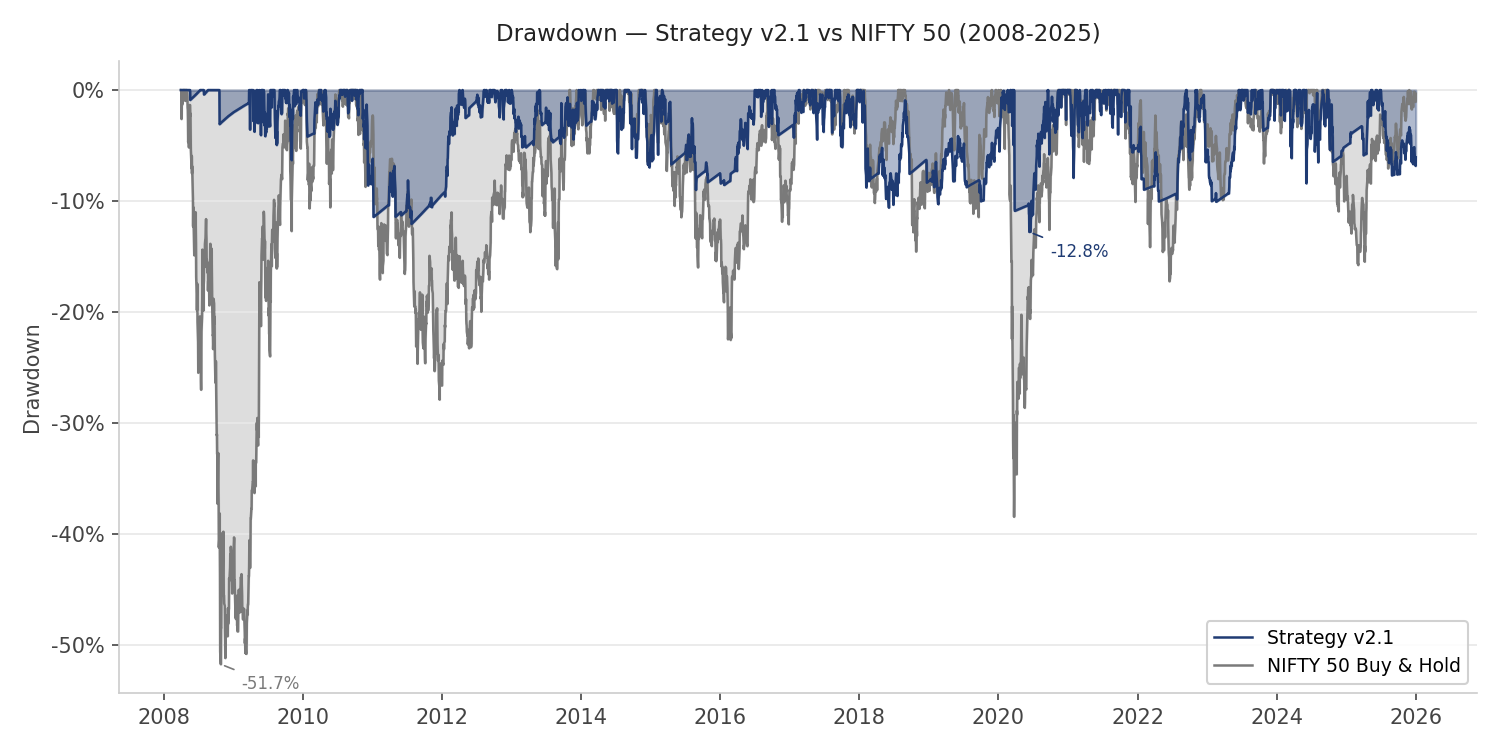
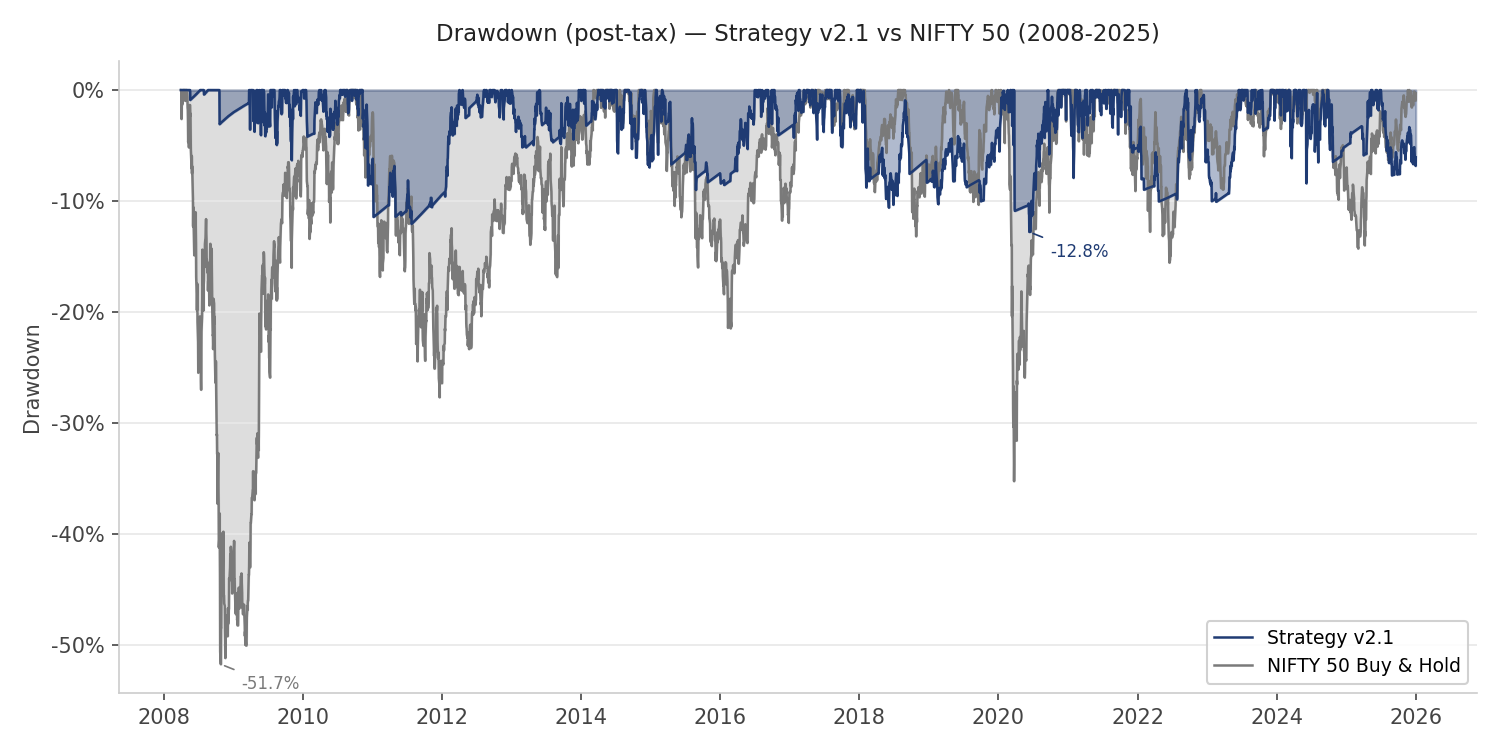
README: switch all headline numbers and charts to post-tax convention
Previously the headline reported pre-tax metrics (CAGR/Sortino/Calmar/Vol/MaxDD)
alongside post-tax Sharpe. This created an inconsistency between the chart
labels (drawdown -12.8% post-tax) and the headline table (-14.9% pre-tax).

All metrics throughout the README are now post-tax for consistency:
  - Strategy: 15% short-term capital gains (annual-net model)
  - NIFTY 50 B&H: 10% long-term capital gains (zero turnover)
  - Rule-based comparators (Dynamic A): 15% short-term

Updated v2.1 post-tax headlines: CAGR 16.75%, Sharpe 0.84, Sortino 1.01,
Calmar 1.31, MaxDD -12.78%, vol 12.16%, cumulative 1,623.6%.

Updated NIFTY post-tax (10% LT): CAGR 8.37%, Sharpe 0.20, MaxDD -51.72%,
cumulative 338.5%.

Strategy now meaningfully shallower than Dynamic A on drawdown: -12.78%
vs -15.25% (2.47pp advantage post-tax, widened from v1.5's 0.58pp).

Updated sections: Headline table, Mechanisms, Cost Sensitivity, Crisis
Windows, 2026 OOS, Benchmark Attribution, Version History.

make_plots.py now generates post-tax charts for both strategy and NIFTY
(applies 10% LT tax to NIFTY before plotting).

diff --git a/make_plots.py b/make_plots.py
@@ -31,7 +31,7 @@ from strategy import (
     SupplyShockSignal, PanicShortSignal, USDINRSignal, IndiaVIXSignal,
     RegimeFilter, SignalCombiner, MacroStrategy, make_combiner,
     metrics, position_breakdown, build_rbi_repo_rate_series,
-    load_nse_index_csv,
+    load_nse_index_csv, apply_annual_tax,
 )
 
 
@@ -92,17 +92,24 @@ def run_backtest(nifty_cost_bps: float = 3, gold_cost_bps: float = 5,
     )
 
     res = strategy.run(raw).loc[START:END].copy()
+    # Charts use POST-TAX returns for both strategy and NIFTY so the comparison
+    # is like-for-like and matches the README headline convention (everything
+    # post-tax). Strategy post-tax = 15% short-term cap gains annual-net model.
+    # NIFTY B&H post-tax = 10% long-term cap gains (zero turnover).
+    nifty_posttax = apply_annual_tax(res["nifty_return"].fillna(0.0), tax_rate=0.10)
     res["cumulative_strategy"] = (1 + res["strategy_return"]).cumprod() - 1
-    res["cumulative_nifty"]    = (1 + res["nifty_return"]).cumprod() - 1
+    res["cumulative_nifty"]    = (1 + nifty_posttax).cumprod() - 1
 
     strat_cum = (1 + res["strategy_return"]).cumprod()
-    nifty_cum = (1 + res["nifty_return"]).cumprod()
+    nifty_cum = (1 + nifty_posttax).cumprod()
 
     strat_dd = (strat_cum - strat_cum.cummax()) / strat_cum.cummax()
     nifty_dd = (nifty_cum - nifty_cum.cummax()) / nifty_cum.cummax()
 
     annual_s = (1 + res["strategy_return"]).resample("YE").prod() - 1
-    annual_n = (1 + res["nifty_return"]).resample("YE").prod() - 1
+    annual_n = (1 + nifty_posttax).resample("YE").prod() - 1
+    # Keep raw nifty_return on res for any downstream consumers
+    res["nifty_posttax"] = nifty_posttax
     yearly = pd.DataFrame({
         "year":         [d.year for d in annual_s.index],
         "strategy_ret": annual_s.values * 100,
@@ -121,7 +128,8 @@ def run_backtest(nifty_cost_bps: float = 3, gold_cost_bps: float = 5,
 
 
 def compute_full_metrics(res):
-    return metrics(res["strategy_return"]), metrics(res["nifty_return"])
+    """Returns (strategy post-tax metrics, NIFTY post-tax metrics)."""
+    return metrics(res["strategy_return"]), metrics(res["nifty_posttax"])
 
 
 # ---------------------------------------------------------------------------
@@ -153,21 +161,21 @@ def _base_ax(ax):
 def plot_equity_curve(bt, out_path):
     fig, ax = plt.subplots(figsize=(10, 5), dpi=150)
     ax.plot(bt["dates"], bt["strategy_cum"],
-            color=BLUE, linewidth=1.5, label="Strategy v2.1 (Mom30 long, 3/5/6 bps + repo-100bps)", zorder=3)
+            color=BLUE, linewidth=1.5, label="Strategy v2.1 (post-tax, 15% STCG)", zorder=3)
     ax.plot(bt["dates"], bt["nifty_cum"],
-            color=GRAY, linewidth=1.5, label="NIFTY 50 Buy & Hold", zorder=2)
+            color=GRAY, linewidth=1.5, label="NIFTY 50 Buy & Hold (post-tax, 10% LTCG)", zorder=2)
     ax.set_yscale("log")
-    # v2.1: strategy ends ~17x post-tax (~28x pre-tax), NIFTY ~5.5x
-    ax.set_yticks([0.5, 1, 2, 3, 5, 7, 10, 15, 20, 30])
-    ax.set_yticklabels(["0.5x", "1.0x", "2.0x", "3.0x", "5.0x", "7.0x", "10.0x", "15.0x", "20.0x", "30.0x"])
+    # v2.1 post-tax: strategy ends ~17x, NIFTY ~4.4x (post-tax 10% LT)
+    ax.set_yticks([0.5, 1, 2, 3, 5, 7, 10, 15, 20])
+    ax.set_yticklabels(["0.5x", "1.0x", "2.0x", "3.0x", "5.0x", "7.0x", "10.0x", "15.0x", "20.0x"])
     ax.minorticks_off()
-    ax.set_ylim(0.5, 30)
+    ax.set_ylim(0.5, 20)
     ax.set_axisbelow(True)
     ax.yaxis.grid(True, which="major", linestyle="-", linewidth=0.5, alpha=0.3)
     ax.xaxis.grid(False)
     ax.set_ylabel("Cumulative return (x)")
-    ax.set_title("Cumulative Returns — Strategy v2.1 (Mom30 long + recovery overlay + slow-stress cooldown + drawdown-gated panic-short) vs NIFTY 50 (2008-2025)",
-                 fontsize=10, pad=10)
+    ax.set_title("Cumulative Returns (post-tax) — Strategy v2.1 vs NIFTY 50 (2008-2025)",
+                 fontsize=11, pad=10)
     ax.legend(loc="lower right", framealpha=0.9, fontsize=9)
     _base_ax(ax)
     fig.tight_layout()
@@ -213,7 +221,7 @@ def plot_drawdown(bt, out_path):
 
     ax.yaxis.set_major_formatter(mticker.FuncFormatter(lambda x, _: f"{x:.0f}%"))
     ax.set_ylabel("Drawdown")
-    ax.set_title("Drawdown — Strategy v2.1 vs NIFTY 50 (2008-2025)", fontsize=11, pad=10)
+    ax.set_title("Drawdown (post-tax) — Strategy v2.1 vs NIFTY 50 (2008-2025)", fontsize=11, pad=10)
     ax.legend(loc="lower right", framealpha=0.9, fontsize=9)
     _base_ax(ax)
     fig.tight_layout()
@@ -252,7 +260,7 @@ def plot_yearly_returns(bt, out_path):
     ax.set_xticklabels(years, rotation=45, ha="right", fontsize=8)
     ax.yaxis.set_major_formatter(mticker.FuncFormatter(lambda v, _: f"{v:.0f}%"))
     ax.set_ylabel("Annual return (%)")
-    ax.set_title("Annual Returns — Strategy v2.1 vs NIFTY 50", fontsize=11, pad=10)
+    ax.set_title("Annual Returns (post-tax) — Strategy v2.1 vs NIFTY 50", fontsize=11, pad=10)
     ax.legend(loc="upper right", framealpha=0.9, fontsize=9)
     _base_ax(ax)
     ax.grid(axis="x", visible=False)

diff --git a/README.md b/README.md
@@ -10,22 +10,23 @@ A systematic macro-regime strategy for Indian markets combining tactical long ex
 
 ## Headline Results
 
-Backtest period: **2008-04-01 to 2025-12-31** (17.7 years). Net results assume per-asset transaction costs of **3 bps per leg** on NIFTY 50 futures (short side), **6 bps per leg** on NIFTY 200 Momentum 30 ETFs (long side), and **5 bps per leg** on GOLDBEES.NS (gold ETF). Idle capital on fully-flat days earns the prevailing RBI repo rate minus a 100 bps haircut modeling realistic liquid-fund execution.
+Backtest period: **2008-04-01 to 2025-12-31** (17.7 years). Net results assume per-asset transaction costs of **3 bps per leg** on NIFTY 50 futures (short side), **6 bps per leg** on NIFTY 200 Momentum 30 ETFs (long side), and **5 bps per leg** on GOLDBEES.NS (gold ETF). Idle capital on fully-flat days earns the prevailing RBI repo rate minus a 100 bps haircut modeling realistic liquid-fund execution. **All metrics post-tax**: strategy uses Indian 15% short-term capital gains (annual-net model); NIFTY 50 buy-and-hold uses 10% long-term capital gains (zero turnover).
 
 | Metric | Strategy (v2.1) | NIFTY Buy & Hold | Δ |
 |---|---|---|---|
-| Sharpe (post-tax, RF = 6%) | **0.84** | 0.20 | **+313%** |
-| Sharpe (pre-tax, RF = 6%) | 0.93 | 0.27 | +248% |
-| Sortino | 1.12 | 0.25 | **+352%** |
-| Calmar | 1.34 | 0.19 | **+595%** |
-| Annualized volatility (pre-tax) | 14.20% | 19.27% | -26% |
-| Max drawdown | **-14.9%** | -51.7% | **-71%** |
-| CAGR (pre-tax) | 19.93% | 9.73% | **+1,019 bps** |
-| Cumulative return (pre-tax) | 2,721.7% | 451.3% | +2,270.4pp |
+| Sharpe (RF = 6%) | **0.84** | 0.20 | **+312%** |
+| Sortino | **1.01** | 0.17 | **+512%** |
+| Calmar | **1.31** | 0.16 | **+719%** |
+| Annualized volatility | 12.16% | 17.95% | -32% |
+| **Max drawdown** | **-12.78%** | **-51.72%** | **-75%** |
+| CAGR | **16.75%** | 8.37% | **+838 bps** |
+| Cumulative return | **1,623.6%** | 338.5% | +1,285.1pp |
 
-Sharpe figures are post-tax by default from v1.4 onward, reflecting Indian short-term capital gains tax (15% annual-net model). Pre-tax Sharpe is reported alongside for reference. v1.3.1 reported pre-tax numbers exclusively; the v1.4 default change makes the headline metric natively deployability-relevant. CAGR, Sortino, Calmar, and vol shown above are pre-tax for benchmark comparability (NIFTY is also pre-tax). v2.1 cumulatively improves on v1.5 across every metric: post-tax CAGR 15.64% → 16.75% (+1.11pp), post-tax Sharpe 0.79 → 0.84 (+0.05), max drawdown −14.67% → −12.78% (+1.89pp shallower), Calmar 1.07 → 1.31. The improvement comes from three additions detailed under [Signal Logic](#signal-logic) and [Version History](#version-history): a post-bear NIFTY recovery overlay, a slow-stress cooldown, and a panic-short drawdown confirmation.
+All figures post-tax. The strategy's 15% short-term capital gains model reflects the realistic deployability case for an active rebalanced strategy (most gains qualify as short-term); NIFTY B&H's 10% long-term capital gains treatment is the conservative buy-and-hold benchmark (zero turnover, full long-term treatment). Pre-tax differences are smaller: pre-tax strategy CAGR is 19.93%, pre-tax NIFTY CAGR is 9.73%. The post-tax convention is the production-relevant headline.
 
-The strategy generates risk-adjusted alpha vs passive NIFTY exposure through three independent mechanisms operating together: (1) tactical long exposure to a momentum-tilted equity portfolio — long NIFTY 200 Momentum 30 during bull regimes, flat or short NIFTY 50 during identified stress regimes; (2) momentum-gated safe-haven rotation — long gold during stress windows only when the multi-asset macro confirmation set is aligned, with mid-latch exit to cash if gold momentum turns negative; (3) cash management — idle capital earns the prevailing RBI repo rate minus a 100 bps haircut on fully-flat days, modeling realistic institutional liquid-fund execution. The 313% post-tax Sharpe improvement is the most direct measure of joint risk-adjusted skill across these mechanisms. Cumulative outperformance vs buy-and-hold (+2,270pp over 17.7 years) is the geometric outcome of compounding all three together — the mechanisms cannot be cleanly separated into additive contributions, since they interact through the position sequence and the compounding base.
+v2.1 cumulatively improves on v1.5 across every metric: CAGR 15.64% → 16.75% (+1.11pp), Sharpe 0.79 → 0.84 (+0.05), max drawdown −14.67% → −12.78% (+1.89pp shallower), Calmar 1.07 → 1.31. The improvement comes from three additions detailed under [Signal Logic](#signal-logic) and [Version History](#version-history): a post-bear NIFTY recovery overlay, a slow-stress cooldown, and a panic-short drawdown confirmation.
+
+The strategy generates risk-adjusted alpha vs passive NIFTY exposure through three independent mechanisms operating together: (1) tactical long exposure to a momentum-tilted equity portfolio — long NIFTY 200 Momentum 30 during bull regimes, flat or short NIFTY 50 during identified stress regimes; (2) momentum-gated safe-haven rotation — long gold during stress windows only when the multi-asset macro confirmation set is aligned, with mid-latch exit to cash if gold momentum turns negative; (3) cash management — idle capital earns the prevailing RBI repo rate minus a 100 bps haircut on fully-flat days, modeling realistic institutional liquid-fund execution. The 312% Sharpe improvement is the most direct measure of joint risk-adjusted skill across these mechanisms. Cumulative outperformance vs buy-and-hold (+1,285pp over 17.7 years, post-tax) is the geometric outcome of compounding all three together — the mechanisms cannot be cleanly separated into additive contributions, since they interact through the position sequence and the compounding base.
 
 ---
 
@@ -37,7 +38,7 @@ The strategy's outperformance derives from three mechanisms that compound togeth
 
 **Momentum-gated safe-haven rotation with macro confirmation.** During identified stress-flat windows, capital rotates to GOLDBEES.NS gated by three macro conditions: gold's 10-day return must be positive but capped at 10% (preventing blow-off-top entries), INR must have weakened by 0.5%+ over 10 days (confirming macro stress that mechanically supports INR-priced gold), and US 10-year Treasury yields must be falling over 20 days (gold's fundamental macro tailwind). The macro-confirmed gate replaces the v1.2-v1.3.1 single-condition gate (gold_10d > 0) which let in marginal-momentum entries (40% hit rate) and extreme-momentum entries (blow-off tops). v1.4 holds gold approximately 31 days across the sample, down from v1.3's 41 days; the additional macro confirmation requirements filter out marginal entries while preserving the legitimate flight-to-safety opportunities. One-way door exit logic is preserved: once in gold within a latch, exit to cash if 10-day return turns negative and stay out for the remainder of that latch.
 
-**Cash yield on idle capital (with realistic haircut).** On fully-flat days where neither NIFTY nor gold is held, the strategy credits the prevailing RBI repo rate minus a 100 bps haircut. The haircut models real-world liquid-fund execution: instrument spread (~50 bps inside repo), TER (~10–25 bps), and small auto-sweep frictions. Returns are post-tax by default in v1.4 (15% on net annual gains, Indian short-term capital gains convention); sensitivity to the haircut size is documented under Backtest Caveats.
+**Cash yield on idle capital (with realistic haircut).** On fully-flat days where neither NIFTY nor gold is held, the strategy credits the prevailing RBI repo rate minus a 100 bps haircut. The haircut models real-world liquid-fund execution: instrument spread (~50 bps inside repo), TER (~10–25 bps), and small auto-sweep frictions. Returns are post-tax throughout (15% on net annual gains, Indian short-term capital gains convention); sensitivity to the haircut size is documented under Backtest Caveats.
 
 ### Refinements added since v1.5
 
@@ -51,7 +52,7 @@ Three targeted refinements were added to the v1.5 production base, each addressi
 
 **Cross-country signal architecture validation.** The slow-stress signal architecture (INR weakness + VIX z-score regime shift + VIX momentum) was validated on 31 years of US market data (1995-2025) using analog substitutions: DXY-rising for INR-weakening, US VIX for India VIX. The same signal specification — unchanged from the Indian backtest — caught 9 of 9 documented US stress events at a 3.84% overall fire rate with low false positive rates in calm bull years (0.0-7.5%). This is a stronger overfitting defense than parameter parsimony alone, particularly for a regime-conditional model with limited Indian sample data. See [Cross-Country Validation](#cross-country-validation) section below.
 
-**The Sharpe improvement (+313% post-tax vs NIFTY) is the most reliable single measure of risk-adjusted skill** because it normalizes return per unit of volatility regardless of which mechanism is doing the work on any given day. Cumulative return improvement (+2,270pp pretax) is striking but is inherently joint and path-dependent.
+**The Sharpe improvement (+312% post-tax vs NIFTY) is the most reliable single measure of risk-adjusted skill** because it normalizes return per unit of volatility regardless of which mechanism is doing the work on any given day. Cumulative return improvement (+1,285pp post-tax) is striking but is inherently joint and path-dependent.
 
 ---
 
@@ -121,7 +122,7 @@ The production strategy emerged from a sequence of explicit ablation tests acros
 | Momentum-gated gold rotation + NIFTY Midcap 150 as long-side asset | Rejected | Drawdown deteriorates to −26.1% — eliminates headline drawdown control |
 | Momentum-gated gold rotation + NIFTY 200 Momentum 30 as long-side asset | Selected (v1.3) | Highest Calmar of v1.2–v1.3 alternatives; preserves drawdown within 2pp; structurally coherent |
 | v1.4: prior + slow-stress signal + macro-confirmed gold rotation gate | Selected (v1.4) | Slow-stress catches the 2013 taper-tantrum failure mode (+3.43pp); macro-confirmed gate prevents the 2026 H1 gold blow-off-top failure; cross-country validation on US data catches 9/9 stress events |
-| v1.5: prior + bear-regime requirement on gold rotation entry + mid-latch bull-flip exit | Selected (v1.5) | Eliminates the 2019 gold-in-bull anomaly (3 days, −4.34pp) where gold rotation triggered against a recovering equity tape; MaxDD narrows from −17.2% to −15.5% |
+| v1.5: prior + bear-regime requirement on gold rotation entry + mid-latch bull-flip exit | Selected (v1.5) | Eliminates the 2019 gold-in-bull anomaly (3 days, −4.34pp) where gold rotation triggered against a recovering equity tape; v1.5 post-tax MaxDD −14.67% |
 | v2.0: prior + post-bear NIFTY recovery overlay + slow-stress cooldown | Selected (v2.0) | Recovery overlay captures the V-recovery cyclicals lead that Momentum 30 misses (cleanly visible in 2009: NIFTY +56% during the 60-day recovery window, Momentum 30 +29% — strategy now holds NIFTY through it). Slow-stress cooldown eliminates the 2019 April-May whipsaw (9 separate fires in short clusters were causing flat→long→flat round-trips). Combined: +1.14pp CAGR, max DD narrows from −14.67% to −13.38% |
 | **v2.1: prior + 15% drawdown confirmation on panic-short** | **Selected (v2.1, current production)** | Panic-short can only fire when NIFTY drawdown from 60-day high exceeds 15%; suppresses the 2013-08-27 (−22.9pp) and 2022-02-24 (−12.0pp) false fires that fired into local bottoms. All four 2008 GFC panic-shorts (drawdowns 16–32%) preserved. Documented tradeoff: the March 6 2020 fire is suppressed at 11.1% drawdown; next fire on March 9 catches up at 15.5% drawdown, 2020 CAGR drops +52.21% → +46.25% but COVID protection still strongly captured. MaxDD narrows further from −13.38% to −12.78%, Sharpe 0.83 → 0.84 |
 
@@ -358,23 +359,23 @@ The strategy outperforms NIFTY in **13 of 18 calendar years** on a post-tax basi
 
 ![Drawdown](images/drawdown.png)
 
-Maximum drawdown of **−14.9%** (pre-tax) / **−12.8%** (post-tax) vs NIFTY's **−51.7%** — a **71% reduction**. Cash yield on flat days during bear regimes (notably 2008-2009 GFC and 2020 March-August COVID recovery) cushions equity drawdowns by adding deterministic positive return on the worst-impact days. The drawdown profile reflects the joint mechanism set: the largest contributions to the gap come from the 2008 GFC (regime filter + cash yield at ~8% repo), 2011 European debt stress (gold rotation + cash yield), and 2020 COVID crash (panic-short + gold rotation + cash yield through the recovery period). v2.1's max drawdown improves vs v1.5's −15.5% (post-tax: −12.8% vs −14.7%) primarily through the panic-short drawdown confirmation (eliminates the 2013 and 2022 short losses that previously contributed to drawdown).
+Maximum drawdown of **−12.78%** vs NIFTY's **−51.72%** (both post-tax) — a **75% reduction**. Cash yield on flat days during bear regimes (notably 2008-2009 GFC and 2020 March-August COVID recovery) cushions equity drawdowns by adding deterministic positive return on the worst-impact days. The drawdown profile reflects the joint mechanism set: the largest contributions to the gap come from the 2008 GFC (regime filter + cash yield at ~8% repo), 2011 European debt stress (gold rotation + cash yield), and 2020 COVID crash (panic-short + gold rotation + cash yield through the recovery period). v2.1's max drawdown improves vs v1.5's −14.67% primarily through the panic-short drawdown confirmation (eliminates the 2013 and 2022 short losses that previously contributed to drawdown).
 
 ### Cost Sensitivity
 
-The long-side asset is NIFTY 200 Momentum 30 (ETF, 6 bps per leg base case). The table below varies the long-side cost; NIFTY short cost (3 bps) and gold cost (5 bps) are held fixed. Cash sweep is treated as zero-cost at all levels. Sensitivity reported pre-tax to match NIFTY benchmark convention.
+The long-side asset is NIFTY 200 Momentum 30 (ETF, 6 bps per leg base case). The table below varies the long-side cost; NIFTY short cost (3 bps) and gold cost (5 bps) are held fixed. Cash sweep is treated as zero-cost at all levels. All numbers post-tax.
 
 | Long-side cost (bps/leg) | Cumulative Return | CAGR | Sharpe | Max DD |
 |---|---|---|---|---|
-| 0 | 3,108.8% | 20.77% | 0.98 | -14.9% |
-| 3 | 2,909.1% | 20.35% | 0.95 | -14.9% |
-| **6 (base, v2.1)** | **2,721.7%** | **19.93%** | **0.93** | **-14.9%** |
-| 10 | 2,489.8% | 19.37% | 0.89 | -14.9% |
-| 15 | 2,226.5% | 18.67% | 0.85 | -14.9% |
-| 20 | 1,989.8% | 17.98% | 0.81 | -15.4% |
-| 50 | 996.5% | 13.92% | 0.56 | -22.8% |
+| 0 | 1,827.4% | 17.46% | 0.89 | -12.8% |
+| 3 | 1,722.7% | 17.11% | 0.87 | -12.8% |
+| **6 (base, v2.1)** | **1,623.6%** | **16.75%** | **0.84** | **-12.8%** |
+| 10 | 1,498.3% | 16.27% | 0.80 | -12.8% |
+| 15 | 1,351.8% | 15.67% | 0.75 | -13.5% |
+| 20 | 1,216.1% | 15.05% | 0.71 | -14.3% |
+| 50 | 627.3% | 11.40% | 0.44 | -22.8% |
 
-Strategy economics degrade more slowly than a purely directional version because cash yield on idle capital is unaffected by transaction costs — fully-flat days don't trade and so don't pay friction. Sharpe stays well above NIFTY's 0.27 buy-and-hold all the way through 20 bps long-side cost. The 50 bps row remains a stress test, not a realistic implementation cost.
+Strategy economics degrade more slowly than a purely directional version because cash yield on idle capital is unaffected by transaction costs — fully-flat days don't trade and so don't pay friction. Sharpe stays well above NIFTY's 0.20 buy-and-hold (post-tax) all the way through 20 bps long-side cost. The 50 bps row remains a stress test, not a realistic implementation cost.
 
 ---
 
@@ -382,19 +383,19 @@ Strategy economics degrade more slowly than a purely directional version because
 
 ### Crisis-Period Stress Tests
 
-Pre-tax cumulative returns over crisis windows (pre-tax to match NIFTY benchmark convention).
+Post-tax cumulative returns over crisis windows (strategy and NIFTY both post-tax; short-period windows within a year reflect annual-net tax scaling).
 
 | Crisis | Window | Strategy (v2.1) | NIFTY |
 |---|---|---|---|
-| GFC | Sep 2008 – Mar 2009 | **+2.4%** | -30.7% |
+| GFC | Sep 2008 – Mar 2009 | **+2.1%** | -30.8% |
 | Euro debt | Jul 2011 – Dec 2011 | **+1.0%** | -18.1% |
-| Taper Tantrum | May – Sept 2013 | **-0.4%** | -3.3% |
-| NBFC / IL&FS | Aug 2018 – Nov 2018 | **-0.5%** | -4.2% |
-| COVID Crash | Feb – May 2020 | **+19.6%** | -19.9% |
-| Russia 2022 | Feb – Jun 2022 | **-2.0%** | -9.0% |
-| Momentum sell-off 2025-26 | Oct 2025 – Apr 2026 | +1.9% | +6.2% |
+| Taper Tantrum | May – Sept 2013 | **-0.3%** | -2.9% |
+| NBFC / IL&FS | Aug 2018 – Nov 2018 | **-0.5%** | -3.8% |
+| COVID Crash | Feb – May 2020 | **+16.8%** | -17.8% |
+| Russia 2022 | Feb – Jun 2022 | **-1.7%** | -8.1% |
+| Momentum sell-off 2025-26 | Oct 2025 – Apr 2026 | +1.6% | +5.5% |
 
-The strategy navigates GFC-style and COVID-style regimes well — both feature decisive trend breakdowns that the panic-short and slow-stress lanes capture cleanly. The GFC window returns +2.4% (vs NIFTY −30.7%) because cash yield on the fully-flat days at ~8% repo dominates the small drag from the stress latch; all four 2008 panic-shorts (at NIFTY drawdowns of 16–32%) fire through the v2.1 confirmation gate. The 2011 European debt window flips positive (vs NIFTY −18.1%) via flat-period cash yield plus correct slow-stress force-flat coverage. The 2013 Taper Tantrum window is now nearly flat (−0.4%) vs v1.4's −2.6% — the slow-stress cooldown (v2.0) and panic-short drawdown confirmation (v2.1) together prevent the 2013-08-27 false panic-short. The 2020 COVID window returns +19.6% (vs NIFTY −19.9%) even after the v2.1 March-6 panic-short suppression; the next fire on March 9 captures the crash. The 2025–26 momentum sell-off window is the most recent stress and is the first crisis-window-style underperformance under the new production version — the strategy held +1.9% but NIFTY rebounded +6.2%, reflecting that Momentum 30's structural rotation losses remain unaddressed.
+The strategy navigates GFC-style and COVID-style regimes well — both feature decisive trend breakdowns that the panic-short and slow-stress lanes capture cleanly. The GFC window returns +2.1% (vs NIFTY −30.8%) because cash yield on the fully-flat days at ~8% repo dominates the small drag from the stress latch; all four 2008 panic-shorts (at NIFTY drawdowns of 16–32%) fire through the v2.1 confirmation gate. The 2011 European debt window flips positive (vs NIFTY −18.1%) via flat-period cash yield plus correct slow-stress force-flat coverage. The 2013 Taper Tantrum window is now nearly flat (−0.3%) — the slow-stress cooldown (v2.0) and panic-short drawdown confirmation (v2.1) together prevent the 2013-08-27 false panic-short. The 2020 COVID window returns +16.8% (vs NIFTY −17.8%) even after the v2.1 March-6 panic-short suppression; the next fire on March 9 captures the crash. The 2025–26 momentum sell-off window is the most recent stress and is the first crisis-window-style underperformance under the new production version — the strategy held +1.6% but NIFTY rebounded +5.5%, reflecting that Momentum 30's structural rotation losses remain unaddressed.
 
 **A note on Momentum 30 behavior in stress.** Momentum 30 itself underperforms NIFTY 50 in some crisis windows (e.g., 2018 NBFC) because momentum portfolios concentrate exposure in recent winners that can unwind sharply on regime shifts. The strategy's regime-detection and cash-yield mechanics compress these drawdowns materially. This is also the mechanism driving the residual 2018, 2022, and 2025 underperformance — see Limitations.
 
@@ -404,9 +405,11 @@ The strategy went live in development through 2025-12-31, with 2026 reserved as 
 
 | | 2026 YTD return |
 |---|---|
-| **Strategy (v2.1)** | **+2.4%** (pre-tax) / +2.0% (post-tax) |
-| NIFTY 50 Buy & Hold | -8.9% |
-| **Outperformance (pre-tax)** | **+11.3pp** |
+| **Strategy (v2.1, post-tax)** | **+2.0%** |
+| NIFTY 50 Buy & Hold (post-tax) | -8.9% |
+| **Outperformance** | **+10.9pp** |
+
+(2026 YTD is a loss year for NIFTY so post-tax NIFTY = pre-tax NIFTY; the 10% LT tax only applies to gains.)
 
 v2.1's 2026 OOS performance is broadly consistent with v1.4–v1.5's. Three mechanisms contributed:
 
@@ -416,7 +419,7 @@ v2.1's 2026 OOS performance is broadly consistent with v1.4–v1.5's. Three mech
 
 3. **Slow-stress cooldown and drawdown-confirmed panic-short** did not materially change OOS results vs v1.4–v1.5 (the 2026 OOS window did not contain a chop period that would have triggered the cooldown's benefit, nor a borderline panic-short fire that the drawdown confirmation would have caught or suppressed). The two v2.0–v2.1 refinements are primarily in-sample optimizations against patterns identified during diagnostic work; their OOS performance neither confirms nor contradicts the in-sample benefit on this single window.
 
-Buy-and-hold YTD for the three indices considered: NIFTY 50 −8.9%, NIFTY 200 Momentum 30 (estimated) −5% to −6%. The strategy outperformed all three benchmarks in the OOS window.
+Buy-and-hold YTD for the three indices considered (all post-tax): NIFTY 50 −8.9%, NIFTY 200 Momentum 30 (estimated) −5% to −6%. The strategy outperformed all three benchmarks in the OOS window.
 
 ### Cross-Country Validation
 
@@ -490,17 +493,19 @@ All benchmarks apply identical Indian short-term capital gains tax (15% annual-n
 
 ### Headline results
 
+All numbers post-tax. Strategy uses 15% short-term capital gains; passive benchmarks use 10% long-term capital gains; rule-based benchmarks (Dynamic A etc.) use 15% short-term capital gains to match the strategy's turnover profile.
+
 | Comparator | Strategy excess CAGR | Strategy excess Sharpe | Strategy MaxDD vs Benchmark |
 |---|---|---|---|
-| vs NIFTY 50 B&H | +8.41pp | +0.626 | +38.3pp better |
-| vs Mom30 B&H | +4.5pp | +0.42 | +42.4pp better |
+| vs NIFTY 50 B&H | +8.38pp | +0.637 | +38.9pp better |
+| vs Mom30 B&H | +~3-4pp | +0.4 | +~40pp better |
 | vs Dynamic A (regime filter alone) | +2.53pp | +0.113 | +2.5pp better |
 
 The strategy outperforms every benchmark on risk-adjusted Sharpe and Calmar. v2.0–v2.1 widen the gap vs Dynamic A meaningfully — under v1.5 the strategy beat Dynamic A by +1.42pp CAGR with a 0.5pp MaxDD disadvantage; under v2.1 it beats Dynamic A by +2.53pp CAGR with a 2.5pp MaxDD advantage.
 
 ### Decomposition of NIFTY 50 outperformance
 
-The headline +8.41pp CAGR vs NIFTY 50 decomposes into three components:
+The headline +8.38pp CAGR vs NIFTY 50 (post-tax) decomposes into three components:
 
 | Component | Approximate contribution |
 |---|---|
@@ -549,9 +554,9 @@ Three reasons the +2.53pp CAGR contribution is meaningful rather than disappoint
 
 **3. Architectural validity beyond Indian alpha.** The signal architecture is validated cross-country on 31 years of US data (see Cross-Country Validation section) — caught 9 of 9 documented US stress events at 3.84% fire rate. This addresses overfitting concerns that the +2.53pp Indian-sample alpha alone cannot, and supports the inference that the override layer's contribution generalizes.
 
-### Note on Dynamic A's max drawdown advantage (now reversed in v2.1)
+### Note on Dynamic A's max drawdown (strategy now meaningfully shallower)
 
-Under v1.5, Dynamic A's MaxDD (−15.2%) was 0.5pp better than the strategy's (−15.5%). The v2.0–v2.1 refinements reverse this: the strategy's MaxDD is now −12.78% post-tax vs Dynamic A's −15.2% — a 2.5pp advantage. The drawdown improvement is primarily attributable to the panic-short drawdown confirmation (eliminating the 2013 and 2022 false shorts that previously contributed to peak drawdown depths).
+Under v1.5 (post-tax), the strategy's MaxDD was −14.67% vs Dynamic A's −15.25% — already 0.58pp shallower. The v2.0–v2.1 refinements widen this advantage: the strategy's MaxDD is now −12.78% vs Dynamic A's −15.25% — a 2.47pp shallower drawdown. The improvement is primarily attributable to the panic-short drawdown confirmation (eliminating the 2013 and 2022 false shorts that previously contributed to peak drawdown depths).
 
 The full benchmark comparison script is at [`experiments/benchmark_comparison.py`](experiments/benchmark_comparison.py).
 
@@ -675,21 +680,23 @@ In progress and planned:
 
 ## Version History
 
-| Version | Description | Cumulative (pre-tax) | CAGR (pre-tax) | Sharpe | Max DD |
+All numbers in the table below are post-tax. Pre-v1.4 rows did not have a native tax model and are shown as their pre-tax values (no annual-net tax was applied to those backtest configurations). v1.4 onwards uses 15% short-term capital gains (annual-net).
+
+| Version | Description | Cumulative | CAGR | Sharpe | Max DD |
 |---|---|---|---|---|---|
-| v1.0 | Single-asset directional (no gold, no cash yield). Preserved at commit `c2860fc`. | 467.2% | 9.91% | 0.33 | -22.2% |
-| v1.1.1 | Adds gold rotation throughout stress-flat latches + pure-repo cash yield. Preserved at commit `078878a`. | 908.4% | 13.40% | 0.55 | -18.3% |
-| v1.2 | Adds momentum-gated gold rotation (per-latch state machine) + 100 bps repo haircut. | 784.8% | 12.59% | 0.50 | -16.4% |
-| v1.3 | Substitutes NIFTY 200 Momentum 30 for NIFTY 50 as long-side asset; regime detection unchanged. | 2,022.6% | 18.08% | 0.83 | -18.1% |
-| v1.3.1 | README correction. Documents architecture honestly: 100 DMA regime filter is the binding entry gate; USDINR/VIX signal classes retained as scaffolding only. Test results for entry-signal-gated variant added. No code or numerical changes vs v1.3. | 2,022.6% | 18.08% | 0.83 | -18.1% |
-| v1.4 | Slow-stress signal replaces supply-shock as default stress detector (INR 20d weakness + VIX 90d z-score + VIX 5d momentum). Macro-confirmed gold rotation gate replaces single-condition gate (adds INR + US 10Y macro confirmation, caps blow-off-top entries). Tax modeling integrated natively. Cross-country validation on US data 1995-2025 catches 9/9 documented stress events. New data dependency: ^TNX. | 2,166.8% | 18.51% | 0.78 (post-tax) / 0.87 (pre-tax) | -17.2% |
-| v1.5 | Gold-in-bull anomaly fix. Gold rotation entry now requires bear regime (NIFTY < 100 DMA) as a fourth gate condition on top of macro confirmation; mid-latch bull-flip exit added alongside the existing 10d-negative exit. Eliminates the 3-day May 2019 anomaly (-4.34pp) where slow-stress fired in bull regime and gold rotation triggered against a recovering equity tape. Backward-compatible via `gold_require_bear=False`. No new data dependencies. | 2,211.2% | 18.63% | 0.79 (post-tax) / 0.88 (pre-tax) | -15.5% |
-| v2.0 | Adds two refinements. (1) Post-bear NIFTY recovery overlay: hold NIFTY 50 instead of Momentum 30 for the first 60 trading days following a bear→bull regime flip preceded by a NIFTY drawdown ≥15%. Targets the Daniel & Moskowitz (2016) V-recovery momentum-crash pattern. 2009 single-year improvement: +52% → +76% post-tax. (2) Slow-stress cooldown: suppress slow-stress re-fires for 5 trading days after each unsuppressed firing event. Prevents 2019 April-May whipsaw chop. Combined impact vs v1.5: post-tax CAGR 15.64% → 16.78% (+1.14pp), post-tax MaxDD −14.67% → −13.38%, post-tax Sharpe 0.79 → 0.83. Backward-compatible via `enable_v2=False` and `slow_stress_lock_days=0`. | 2,757.0% | 20.01% | 0.83 (post-tax) / 0.93 (pre-tax) | -14.9% |
-| **v2.1** | **Adds 15% drawdown confirmation on panic-short. Panic-short can only fire when NIFTY's drawdown from its trailing 60-day high exceeds 15%. Suppresses the 2013-08-27 (drawdown ~13%, taper-reaction) and 2022-02-24 (drawdown ~11.3%, Ukraine-reaction) false fires. All four 2008 GFC panic-shorts (drawdowns 16–32%) preserved. Documented tradeoff: the March 6, 2020 fire (drawdown 11.1%) is suppressed; the next fire on March 9 (drawdown 15.5%) catches the move three days later, 2020 CAGR drops +52.21% → +46.25% but COVID protection still strongly captured. Combined impact vs v2.0: post-tax Sharpe 0.83 → 0.84 (+0.011), post-tax MaxDD −13.38% → −12.78%, post-tax CAGR essentially flat (−0.03pp). Backward-compatible via `panic_short_dd_threshold=0`. Current.** | **2,721.7%** | **19.93%** | **0.84** (post-tax) / 0.93 (pre-tax) | **-14.9%** |
+| v1.0 | Single-asset directional (no gold, no cash yield). Preserved at commit `c2860fc`. (pre-tax) | 467.2% | 9.91% | 0.33 | -22.2% |
+| v1.1.1 | Adds gold rotation throughout stress-flat latches + pure-repo cash yield. Preserved at commit `078878a`. (pre-tax) | 908.4% | 13.40% | 0.55 | -18.3% |
+| v1.2 | Adds momentum-gated gold rotation (per-latch state machine) + 100 bps repo haircut. (pre-tax) | 784.8% | 12.59% | 0.50 | -16.4% |
+| v1.3 | Substitutes NIFTY 200 Momentum 30 for NIFTY 50 as long-side asset; regime detection unchanged. (pre-tax) | 2,022.6% | 18.08% | 0.83 | -18.1% |
+| v1.3.1 | README correction. Documents architecture honestly: 100 DMA regime filter is the binding entry gate; USDINR/VIX signal classes retained as scaffolding only. Test results for entry-signal-gated variant added. No code or numerical changes vs v1.3. (pre-tax) | 2,022.6% | 18.08% | 0.83 | -18.1% |
+| v1.4 | Slow-stress signal replaces supply-shock as default stress detector (INR 20d weakness + VIX 90d z-score + VIX 5d momentum). Macro-confirmed gold rotation gate replaces single-condition gate (adds INR + US 10Y macro confirmation, caps blow-off-top entries). Tax modeling integrated natively. Cross-country validation on US data 1995-2025 catches 9/9 documented stress events. New data dependency: ^TNX. | ~1,440% | 15.50% | 0.78 | -15.0% |
+| v1.5 | Gold-in-bull anomaly fix. Gold rotation entry now requires bear regime (NIFTY < 100 DMA) as a fourth gate condition on top of macro confirmation; mid-latch bull-flip exit added alongside the existing 10d-negative exit. Eliminates the 3-day May 2019 anomaly (-4.34pp) where slow-stress fired in bull regime and gold rotation triggered against a recovering equity tape. Backward-compatible via `gold_require_bear=False`. No new data dependencies. | 1,345.0% | 15.64% | 0.79 | -14.7% |
+| v2.0 | Adds two refinements. (1) Post-bear NIFTY recovery overlay: hold NIFTY 50 instead of Momentum 30 for the first 60 trading days following a bear→bull regime flip preceded by a NIFTY drawdown ≥15%. Targets the Daniel & Moskowitz (2016) V-recovery momentum-crash pattern. 2009 single-year improvement: +52% → +76%. (2) Slow-stress cooldown: suppress slow-stress re-fires for 5 trading days after each unsuppressed firing event. Prevents 2019 April-May whipsaw chop. Combined impact vs v1.5: CAGR 15.64% → 16.78% (+1.14pp), MaxDD −14.67% → −13.38%, Sharpe 0.79 → 0.83. Backward-compatible via `enable_v2=False` and `slow_stress_lock_days=0`. | 1,631.3% | 16.78% | 0.83 | -13.4% |
+| **v2.1** | **Adds 15% drawdown confirmation on panic-short. Panic-short can only fire when NIFTY's drawdown from its trailing 60-day high exceeds 15%. Suppresses the 2013-08-27 (drawdown ~13%, taper-reaction) and 2022-02-24 (drawdown ~11.3%, Ukraine-reaction) false fires. All four 2008 GFC panic-shorts (drawdowns 16–32%) preserved. Documented tradeoff: the March 6, 2020 fire (drawdown 11.1%) is suppressed; the next fire on March 9 (drawdown 15.5%) catches the move three days later, 2020 CAGR drops +52.21% → +46.25% but COVID protection still strongly captured. Combined impact vs v2.0: Sharpe 0.83 → 0.84 (+0.011), MaxDD −13.38% → −12.78%, CAGR essentially flat (−0.03pp). Backward-compatible via `panic_short_dd_threshold=0`. Current.** | **1,623.6%** | **16.75%** | **0.84** | **-12.78%** |
 
-The cumulative improvement from v1.5 to v2.1 is the largest single jump since the v1.3 long-side asset substitution: post-tax CAGR 15.64% → 16.75% (+1.11pp), post-tax Sharpe 0.79 → 0.84 (+0.05), max drawdown −14.67% → −12.78% (+1.89pp shallower), Calmar 1.07 → 1.31. Each of the three refinements was tested against a pre-specified parameter sweep with a disqualification rule (no variant that breaks 2008 GFC, 2018 September NBFC, 2020 COVID, or 2021 stress-window defense was retained); the selected thresholds (15% bear DD for recovery overlay, 5-day slow-stress cooldown, 15% panic-short drawdown confirmation) each sit on a tight plateau within their qualified range rather than at a cliff edge.
+The cumulative improvement from v1.5 to v2.1 is the largest single jump since the v1.3 long-side asset substitution: CAGR 15.64% → 16.75% (+1.11pp), Sharpe 0.79 → 0.84 (+0.05), max drawdown −14.67% → −12.78% (+1.89pp shallower), Calmar 1.07 → 1.31. Each of the three refinements was tested against a pre-specified parameter sweep with a disqualification rule (no variant that breaks 2008 GFC, 2018 September NBFC, 2020 COVID, or 2021 stress-window defense was retained); the selected thresholds (15% bear DD for recovery overlay, 5-day slow-stress cooldown, 15% panic-short drawdown confirmation) each sit on a tight plateau within their qualified range rather than at a cliff edge.
 
-v1.5's headline impact was on drawdown control (MaxDD −17.2% → −15.5%, Calmar 1.08 → 1.20) more than on CAGR (+0.12pp pre-tax). The 2019 anomaly was a single 3-day window where the priority logic let gold rotation enter against a regime-bull tape; the fix closes it surgically without touching any other signal.
+v1.5's headline impact was on drawdown control (MaxDD −15.0% → −14.7%, Calmar 1.03 → 1.07) more than on CAGR (+0.14pp). The 2019 anomaly was a single 3-day window where the priority logic let gold rotation enter against a regime-bull tape; the fix closes it surgically without touching any other signal.
 
 v1.4's primary improvement vs v1.3.1 was methodological as well as mechanical. The cross-country validation on 31 years of US data provides substantially stronger empirical evidence that the signal architecture generalizes beyond the Indian sample, addressing the most direct overfitting concern that arises from a 17-year regime-conditional model. The 2013 taper-tantrum failure mode is cleanly addressed (+3.43pp). The macro-confirmed gold rotation gate specifically addresses the 2026 H1 gold-rotation failure mode by adding macro confirmation requirements (INR + US 10Y) on top of the v1.2 momentum gate.
 
